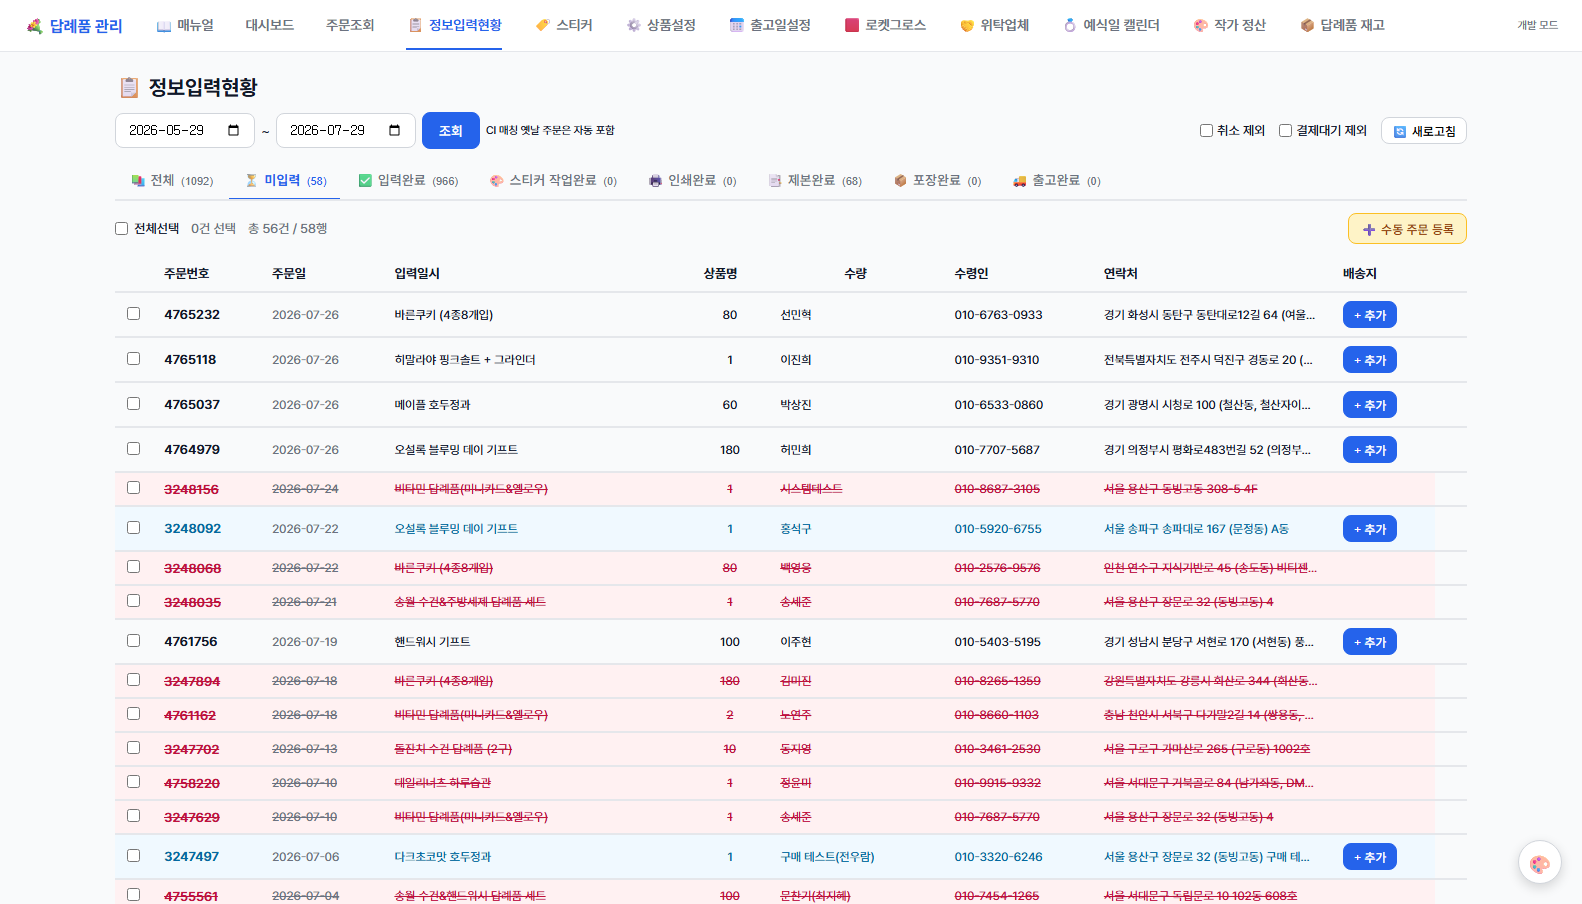
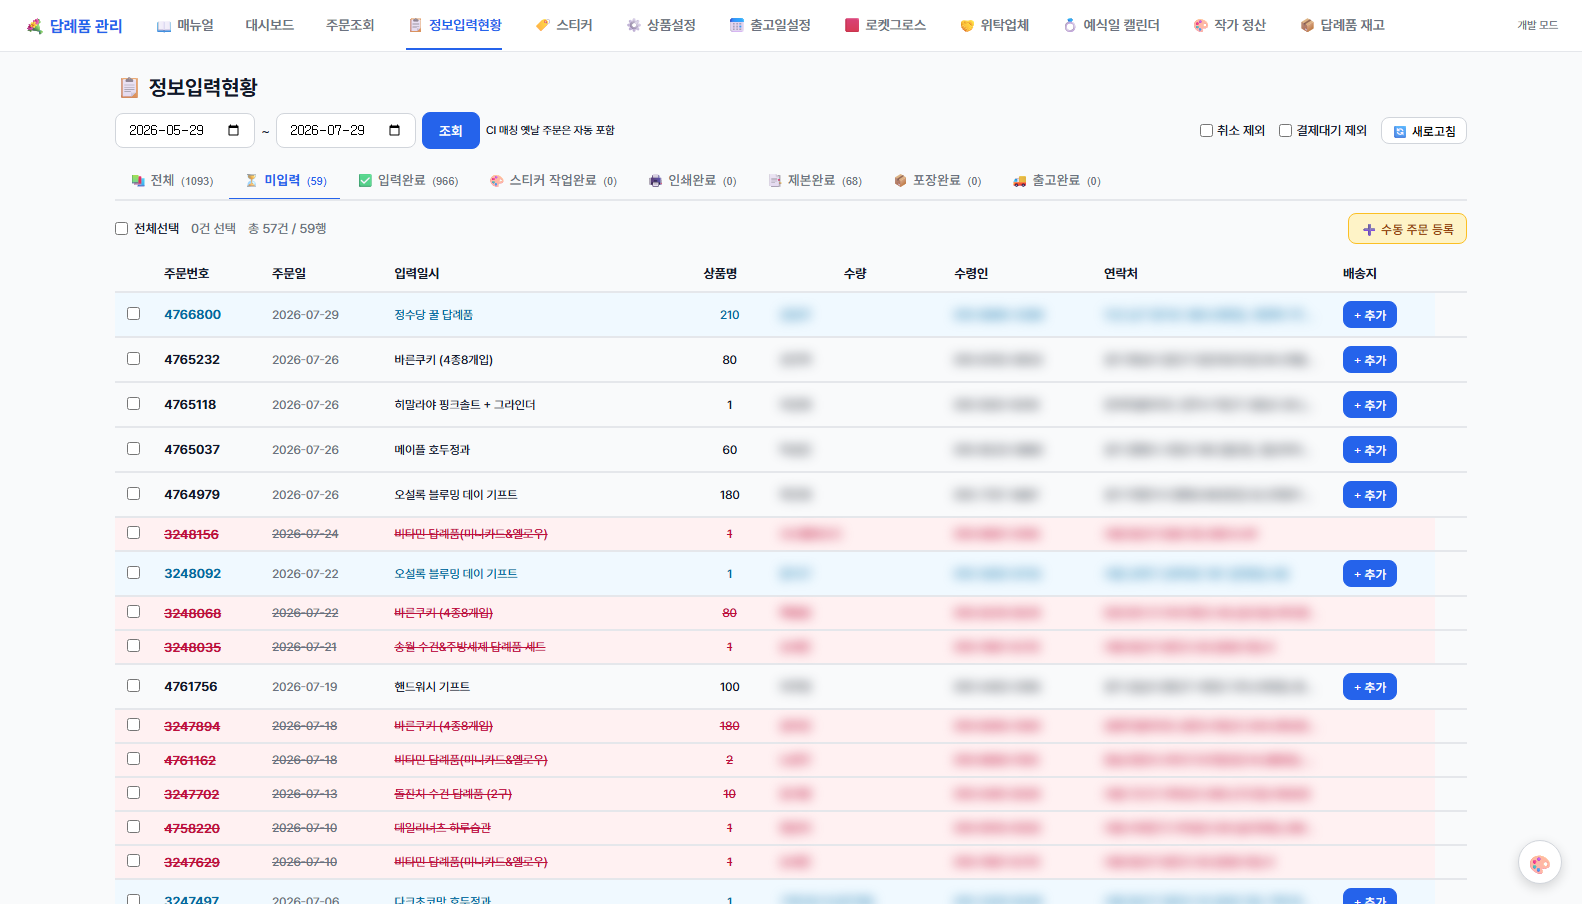
fix: 매뉴얼 캡처 개인정보 블러 + 데코 상품별판매통계 답례품 전용 섹션 숨김
- 매뉴얼 캡처 3장(주문조회/더기프트/정보입력현황) 재촬영 — 주문자명·수령인·
  연락처·주소·배송메세지·회원ID·문구 컬럼을 헤더명 패턴 매칭으로 CSS blur
  처리 후 캡처 (블러 셀 829개). 주문번호·상품명 등 업무 맥락은 유지.
- 데코소품 카테고리의 상품별 판매통계 탭: 주차별 상관관계(예식·D01 고정)와
  상품 판매 순위(apiProductRanking 답례품 필터 고정) 섹션에
  data-dash-only="daeryepum" 지정 → 데코에서는 상품별 판매 통계만 표시.

diff --git a/pricing-prototype/daeryepum/index.html b/pricing-prototype/daeryepum/index.html
@@ -643,8 +643,9 @@ nav.nav-loading a[href^="#"] {
 
   <!-- ============================================
        주차별 예식·주문·매출 상관관계 (주간보고) — 상품별 판매통계 탭 최상단
+       데이터가 답례품 전용(예식·D01 필터 고정)이라 데코소품 탭에서는 숨김
        ============================================ -->
-  <div class="section" data-dash-section="4">
+  <div class="section" data-dash-section="4" data-dash-only="daeryepum">
     <div class="section-title" style="display:flex;justify-content:space-between;align-items:center;flex-wrap:wrap;gap:8px">
       <span>📈 주차별 예식·주문·매출 상관관계</span>
       <div style="display:flex;gap:6px;align-items:center;font-size:12px;font-weight:400">
@@ -671,8 +672,9 @@ nav.nav-loading a[href^="#"] {
 
   <!-- ============================================
        상품 판매 순위 — 일/주/월 기간별 전체 채널 순위
+       apiProductRanking 이 답례품 필터 고정이라 데코소품 탭에서는 숨김
        ============================================ -->
-  <div class="section" data-dash-section="4">
+  <div class="section" data-dash-section="4" data-dash-only="daeryepum">
     <div class="section-title" style="display:flex;justify-content:space-between;align-items:center;flex-wrap:wrap;gap:8px">
       <span>🏆 상품 판매 순위</span>
       <div style="display:flex;gap:6px;align-items:center;flex-wrap:wrap;font-size:12px;font-weight:400">
